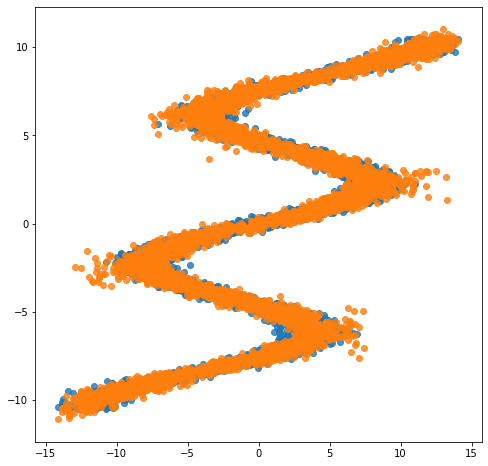
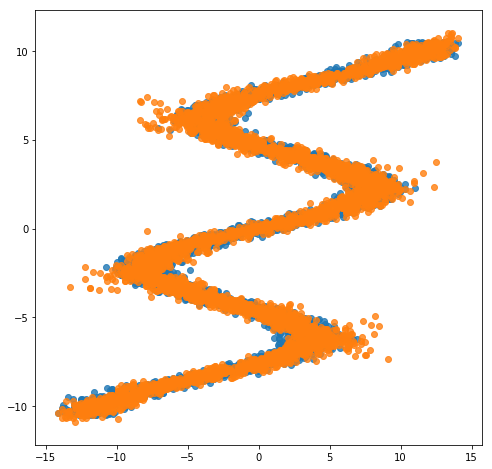
notebook mdn updated

Changed region(s): [[0.0307, 0.0, 0.9836, 0.9914], [0.9836, 0.03, 1.0, 0.9313]]

diff --git a/inferpy/util/tf_graph.py b/inferpy/util/tf_graph.py
@@ -34,7 +34,7 @@ def _clean_graph(G, varnames):
                 predecesors = list(G.predecessors(n))
                 n_name = n[n.rfind('/')]  # real name of the tf.variable
 
-                # assert len(predecesors) <= 2  # At most, it should have two predecessors
+                assert len(predecesors) <= 2  # At most, it should have two predecessors
 
                 if len(predecesors) == 2:
                     if predecesors[0] == n_name:

diff --git a/docs/notes/mixture.rst b/docs/notes/mixture.rst
@@ -19,43 +19,42 @@ density model.
     import tensorflow as tf
     import tensorflow_probability as tfp
     
-    from inferpy import Categorical, Mixture, Normal
     from scipy import stats
     from sklearn.model_selection import train_test_split
 
 .. code:: python3
 
     def plot_normal_mix(pis, mus, sigmas, ax, label='', comp=True):
-      """Plots the mixture of Normal models to axis=ax comp=True plots all
-      components of mixture model
-      """
-      x = np.linspace(-10.5, 10.5, 250)
-      final = np.zeros_like(x)
-      for i, (weight_mix, mu_mix, sigma_mix) in enumerate(zip(pis, mus, sigmas)):
-        temp = stats.norm.pdf(x, mu_mix, sigma_mix) * weight_mix
-        final = final + temp
-        if comp:
-          ax.plot(x, temp, label='Normal ' + str(i))
-      ax.plot(x, final, label='Mixture of Normals ' + label)
-      ax.legend(fontsize=13)
+        """Plots the mixture of Normal models to axis=ax comp=True plots all
+        components of mixture model
+        """
+        x = np.linspace(-10.5, 10.5, 250)
+        final = np.zeros_like(x)
+        for i, (weight_mix, mu_mix, sigma_mix) in enumerate(zip(pis, mus, sigmas)):
+            temp = stats.norm.pdf(x, mu_mix, sigma_mix) * weight_mix
+            final = final + temp
+            if comp:
+                ax.plot(x, temp, label='Normal ' + str(i))
+        ax.plot(x, final, label='Mixture of Normals ' + label)
+        ax.legend(fontsize=13)
     
     
     def sample_from_mixture(x, pred_weights, pred_means, pred_std, amount):
-      """Draws samples from mixture model.
+        """Draws samples from mixture model.
     
-      Returns 2 d array with input X and sample from prediction of mixture model.
-      """
-      samples = np.zeros((amount, 2))
-      n_mix = len(pred_weights[0])
-      to_choose_from = np.arange(n_mix)
-      for j, (weights, means, std_devs) in enumerate(
-              zip(pred_weights, pred_means, pred_std)):
-        index = np.random.choice(to_choose_from, p=weights)
-        samples[j, 1] = np.random.normal(means[index], std_devs[index], size=1)
-        samples[j, 0] = x[j]
-        if j == amount - 1:
-          break
-      return samples
+        Returns 2 d array with input X and sample from prediction of mixture model.
+        """
+        samples = np.zeros((amount, 2))
+        n_mix = len(pred_weights[0])
+        to_choose_from = np.arange(n_mix)
+        for j, (weights, means, std_devs) in enumerate(
+                        zip(pred_weights, pred_means, pred_std)):
+            index = np.random.choice(to_choose_from, p=weights)
+            samples[j, 1] = np.random.normal(means[index], std_devs[index], size=1)
+            samples[j, 0] = x[j]
+            if j == amount - 1:
+                break
+        return samples
 
 Data
 ----
@@ -68,11 +67,11 @@ where he explains MDNs. It is an inverse problem where for every input
 .. code:: python3
 
     def build_toy_dataset(N):
-      y_data = np.random.uniform(-10.5, 10.5, N).astype(np.float32)
-      r_data = np.random.normal(size=N).astype(np.float32)  # random noise
-      x_data = np.sin(0.75 * y_data) * 7.0 + y_data * 0.5 + r_data * 1.0
-      x_data = x_data.reshape((N, 1))
-      return x_data, y_data
+        y_data = np.random.uniform(-10.5, 10.5, N).astype(np.float32)
+        r_data = np.random.normal(size=N).astype(np.float32)    # random noise
+        x_data = np.sin(0.75 * y_data) * 7.0 + y_data * 0.5 + r_data * 1.0
+        x_data = x_data.reshape((N, 1))
+        return x_data, y_data
     
     import random 
     
@@ -82,16 +81,15 @@ where he explains MDNs. It is an inverse problem where for every input
     
     #inf.setseed(42)
     
-    N = 5000  # number of data points
-    D = 1  # number of features
-    K = 20  # number of mixture components
+    N = 5000    # number of data points
+    D = 1    # number of features
+    K = 20    # number of mixture components
     
     X_train, y_train = build_toy_dataset(N)
     
+    
     print("Size of features in training data: {}".format(X_train.shape))
     print("Size of output in training data: {}".format(y_train.shape))
-    print("Size of features in test data: {}".format(X_test.shape))
-    print("Size of output in test data: {}".format(y_test.shape))
     sns.regplot(X_train, y_train, fit_reg=False)
     plt.show()
 
@@ -100,12 +98,10 @@ where he explains MDNs. It is an inverse problem where for every input
 
     Size of features in training data: (5000, 1)
     Size of output in training data: (5000,)
-    Size of features in test data: (5000, 1)
-    Size of output in test data: (5000,)
 
 
 
-.. image../_static/img/notebooks/output_4_1.png
+.. image:: ../_static/img/notebooks/output_4_1.png
 
 
 Fitting a Neural Network
@@ -122,11 +118,11 @@ for each hidden layer.
 .. code:: python3
 
     def neural_network(X):
-      # 2 hidden layers with 15 hidden units
-      net = tf.layers.dense(X, 15, activation=tf.nn.relu)
-      net = tf.layers.dense(net, 15, activation=tf.nn.relu)
-      out = tf.layers.dense(net, 1, activation=None)
-      return out
+        # 2 hidden layers with 15 hidden units
+        net = tf.layers.dense(X, 15, activation=tf.nn.relu)
+        net = tf.layers.dense(net, 15, activation=tf.nn.relu)
+        out = tf.layers.dense(net, 1, activation=None)
+        return out
 
 Let’s now try to fit the neural network to the data
 
@@ -146,10 +142,11 @@ Let’s now try to fit the neural network to the data
     
     NEPOCH = 100
     for i in range(NEPOCH):
-      sess.run(train_op,feed_dict={x: X_train, y: y_train})
-      if i%10==0:
-            print(sess.run(lossfunc,feed_dict={x: X_train, y: y_train}))  
+        sess.run(train_op,feed_dict={x: X_train, y: y_train})
+        if i%10==0:
+                    print(sess.run(lossfunc,feed_dict={x: X_train, y: y_train}))    
     
+    X_test, _ = build_toy_dataset(N)          
     y_test = sess.run(y_out,feed_dict={x: X_test})
     
     plt.figure(figsize=(8, 8))
@@ -161,30 +158,16 @@ Let’s now try to fit the neural network to the data
 
 .. parsed-literal::
 
-    WARNING: Logging before flag parsing goes to stderr.
-    W0821 06:22:38.783931 140736636462016 deprecation.py:323] From <ipython-input-4-3ee7d449962f>:4: dense (from tensorflow.python.layers.core) is deprecated and will be removed in a future version.
-    Instructions for updating:
-    Use keras.layers.dense instead.
-    W0821 06:22:38.798621 140736636462016 deprecation.py:506] From /Users/andresmasegosa/Dropbox/infer/tmp/inferpy/lib/python3.6/site-packages/tensorflow/python/ops/init_ops.py:1251: calling VarianceScaling.__init__ (from tensorflow.python.ops.init_ops) with dtype is deprecated and will be removed in a future version.
-    Instructions for updating:
-    Call initializer instance with the dtype argument instead of passing it to the constructor
-    W0821 06:22:39.369898 140736636462016 deprecation.py:323] From /Users/andresmasegosa/Dropbox/infer/tmp/inferpy/lib/python3.6/site-packages/tensorflow/python/util/tf_should_use.py:193: initialize_all_variables (from tensorflow.python.ops.variables) is deprecated and will be removed after 2017-03-02.
-    Instructions for updating:
-    Use `tf.global_variables_initializer` instead.
-
-
-.. parsed-literal::
-
-    504323700.0
-    462389000.0
-    462367100.0
-    462353200.0
-    462342900.0
-    462338880.0
-    462338700.0
+    511227740.0
+    462885000.0
+    462411170.0
+    462349630.0
+    462345150.0
+    462343040.0
+    462340160.0
+    462339230.0
+    462338560.0
     462338370.0
-    462338180.0
-    462338200.0
 
 
 
@@ -202,20 +185,20 @@ per-component mean and standard deviation are given by the output of a
 feedforward network.
 
 We define our probabilistic model using ``Inferpy`` constructs.
-Specifically, we use the ``MixtureSameFamily`` distribution, where the
-the parameters of this network are provided by our feedforwrad network.
+Specifically, we use the ``MixtureGaussian`` distribution, where the the
+parameters of this network are provided by our feedforwrad network.
 
 .. code:: python3
 
     def neural_network(X):
-      """loc, scale, logits = NN(x; theta)"""
-      # 2 hidden layers with 15 hidden units
-      net = tf.layers.dense(X, 15, activation=tf.nn.relu)
-      net = tf.layers.dense(net, 15, activation=tf.nn.relu)
-      locs = tf.layers.dense(net, K, activation=None)
-      scales = tf.layers.dense(net, K, activation=tf.exp)
-      logits = tf.layers.dense(net, K, activation=None)
-      return locs, scales, logits
+        """loc, scale, logits = NN(x; theta)"""
+        # 2 hidden layers with 15 hidden units
+        net = tf.layers.dense(X, 15, activation=tf.nn.relu)
+        net = tf.layers.dense(net, 15, activation=tf.nn.relu)
+        locs = tf.layers.dense(net, K, activation=None)
+        scales = tf.layers.dense(net, K, activation=tf.exp)
+        logits = tf.layers.dense(net, K, activation=None)
+        return locs, scales, logits
     
     
     @inf.probmodel
@@ -223,32 +206,32 @@ the parameters of this network are provided by our feedforwrad network.
         with inf.datamodel():
             x = inf.Normal(loc = tf.ones([D]), scale = 1.0, name="x")
             locs, scales, logits = neural_network(x)
-            y = inf.MixtureSameFamily(mixture_distribution=tfp.distributions.Categorical(logits=logits), components_distribution=tfp.distributions.Normal(loc=locs, scale=scales+0.01), name="y")
+            y = inf.MixtureGaussian(locs, scales, logits=logits, name="y")
         
     m = mdn()
 
 
+
 .. parsed-literal::
 
-    W0821 06:25:57.125390 140736636462016 deprecation_wrapper.py:119] From /Users/andresmasegosa/Dropbox/infer/tmp/inferpy/lib/python3.6/site-packages/inferpy/models/prob_model.py:62: The name tf.Session is deprecated. Please use tf.compat.v1.Session instead.
+    W0919 11:50:07.330360 4464960960 deprecation_wrapper.py:119] From /Users/rcabanas/GoogleDrive/UAL/inferpy/repo/InferPy/inferpy/models/prob_model.py:63: The name tf.Session is deprecated. Please use tf.compat.v1.Session instead.
     
-    W0821 06:25:57.135653 140736636462016 deprecation_wrapper.py:119] From /Users/andresmasegosa/Dropbox/infer/tmp/inferpy/lib/python3.6/site-packages/inferpy/util/tf_graph.py:63: The name tf.get_default_graph is deprecated. Please use tf.compat.v1.get_default_graph instead.
+    W0919 11:50:07.337288 4464960960 deprecation_wrapper.py:119] From /Users/rcabanas/GoogleDrive/UAL/inferpy/repo/InferPy/inferpy/util/tf_graph.py:63: The name tf.get_default_graph is deprecated. Please use tf.compat.v1.get_default_graph instead.
     
-    W0821 06:25:57.152807 140736636462016 deprecation_wrapper.py:119] From /Users/andresmasegosa/Dropbox/infer/tmp/inferpy/lib/python3.6/site-packages/inferpy/models/random_variable.py:430: The name tf.variables_initializer is deprecated. Please use tf.compat.v1.variables_initializer instead.
+    W0919 11:50:07.348773 4464960960 deprecation_wrapper.py:119] From /Users/rcabanas/GoogleDrive/UAL/inferpy/repo/InferPy/inferpy/models/random_variable.py:425: The name tf.variables_initializer is deprecated. Please use tf.compat.v1.variables_initializer instead.
     
-    W0821 06:25:57.342686 140736636462016 deprecation.py:323] From /Users/andresmasegosa/Dropbox/infer/tmp/inferpy/lib/python3.6/site-packages/tensorflow_probability/python/internal/distribution_util.py:493: add_dispatch_support.<locals>.wrapper (from tensorflow.python.ops.array_ops) is deprecated and will be removed in a future version.
+    W0919 11:50:07.543315 4464960960 deprecation.py:323] From /Users/rcabanas/venv/InferPy/lib/python3.6/site-packages/tensorflow_probability/python/internal/distribution_util.py:493: add_dispatch_support.<locals>.wrapper (from tensorflow.python.ops.array_ops) is deprecated and will be removed in a future version.
     Instructions for updating:
     Use tf.where in 2.0, which has the same broadcast rule as np.where
-    W0821 06:25:57.385910 140736636462016 deprecation_wrapper.py:119] From /Users/andresmasegosa/Dropbox/infer/tmp/inferpy/lib/python3.6/site-packages/inferpy/models/prob_model.py:128: The name tf.global_variables is deprecated. Please use tf.compat.v1.global_variables instead.
+    W0919 11:50:07.578544 4464960960 deprecation_wrapper.py:119] From /Users/rcabanas/GoogleDrive/UAL/inferpy/repo/InferPy/inferpy/models/prob_model.py:136: The name tf.global_variables is deprecated. Please use tf.compat.v1.global_variables instead.
     
 
 
-Note that we use the ``MixtureSameFamily`` random variable. It collapses
+Note that we use the ``MixtureGaussian`` random variable. It collapses
 out the membership assignments for each data point and makes the model
-differentiable with respect to all its parameters. It takes a
-``Categorical`` random variable as input—denoting the probability for
-each cluster assignment—as well as ``components``, which is a list of
-individual distributions to mix over.
+differentiable with respect to all its parameters. It takes a list as
+input—denoting the probability or logits for each cluster assignment—as
+well as ``components``, which are lists of loc and scale values.
 
 For more background on MDNs, take a look at `Christopher Bonnett’s blog
 post <http://cbonnett.github.io/MDN.html>`__ or at Bishop (1994).
@@ -264,31 +247,39 @@ Inferpy <https://inferpy.readthedocs.io/projects/develop/en/develop/notes/guidei
 
     @inf.probmodel
     def qmodel():
-        return;
+            return;
     
-    VI = inf.inference.VI(qmodel(), epochs=2000)
+    VI = inf.inference.VI(qmodel(), epochs=3000)
     m.fit({"y": y_train, "x":X_train}, VI)
 
 
 .. parsed-literal::
 
-    /Users/andresmasegosa/Dropbox/infer/tmp/inferpy/lib/python3.6/site-packages/inferpy/models/prob_model.py:179: UserWarning: Fit was called before. This will restart the inference method and                 re-build the expanded model.
-      re-build the expanded model.")
+    W0919 11:50:07.894652 4464960960 deprecation_wrapper.py:119] From /Users/rcabanas/GoogleDrive/UAL/inferpy/repo/InferPy/inferpy/inference/variational/vi.py:51: The name tf.train.AdamOptimizer is deprecated. Please use tf.compat.v1.train.AdamOptimizer instead.
+    
+    W0919 11:50:07.924045 4464960960 deprecation.py:323] From /Users/rcabanas/GoogleDrive/UAL/inferpy/repo/InferPy/inferpy/util/interceptor.py:21: Variable.load (from tensorflow.python.ops.variables) is deprecated and will be removed in a future version.
+    Instructions for updating:
+    Prefer Variable.assign which has equivalent behavior in 2.X.
 
 
 .. parsed-literal::
 
     
-     0 epochs	 133375.90625....................
-     200 epochs	 113701.6796875....................
-     400 epochs	 110918.515625....................
-     600 epochs	 108761.9453125....................
-     800 epochs	 106857.3828125....................
-     1000 epochs	 106288.171875....................
-     1200 epochs	 106097.1171875....................
-     1400 epochs	 105861.578125....................
-     1600 epochs	 105749.421875....................
-     1800 epochs	 105694.640625....................
+     0 epochs	 125121.9140625....................
+     200 epochs	 114063.9609375....................
+     400 epochs	 111963.1171875....................
+     600 epochs	 109600.671875....................
+     800 epochs	 108434.875....................
+     1000 epochs	 107184.3828125....................
+     1200 epochs	 106577.9140625....................
+     1400 epochs	 106209.484375....................
+     1600 epochs	 106260.375....................
+     1800 epochs	 106086.125....................
+     2000 epochs	 105912.421875....................
+     2200 epochs	 105781.296875....................
+     2400 epochs	 105735.8828125....................
+     2600 epochs	 105708.6796875....................
+     2800 epochs	 105689.4765625....................
 
 After training, we can now see how the same network embbeded in a
 mixture model is able to perfectly capture the training data.
@@ -296,9 +287,7 @@ mixture model is able to perfectly capture the training data.
 .. code:: python3
 
     X_test, y_test = build_toy_dataset(N)
-    
     y_pred = m.posterior_predictive(["y"], data = {"x": X_test}).sample()
-    
     
     plt.figure(figsize=(8, 8))
     sns.regplot(X_test, y_test, fit_reg=False)
